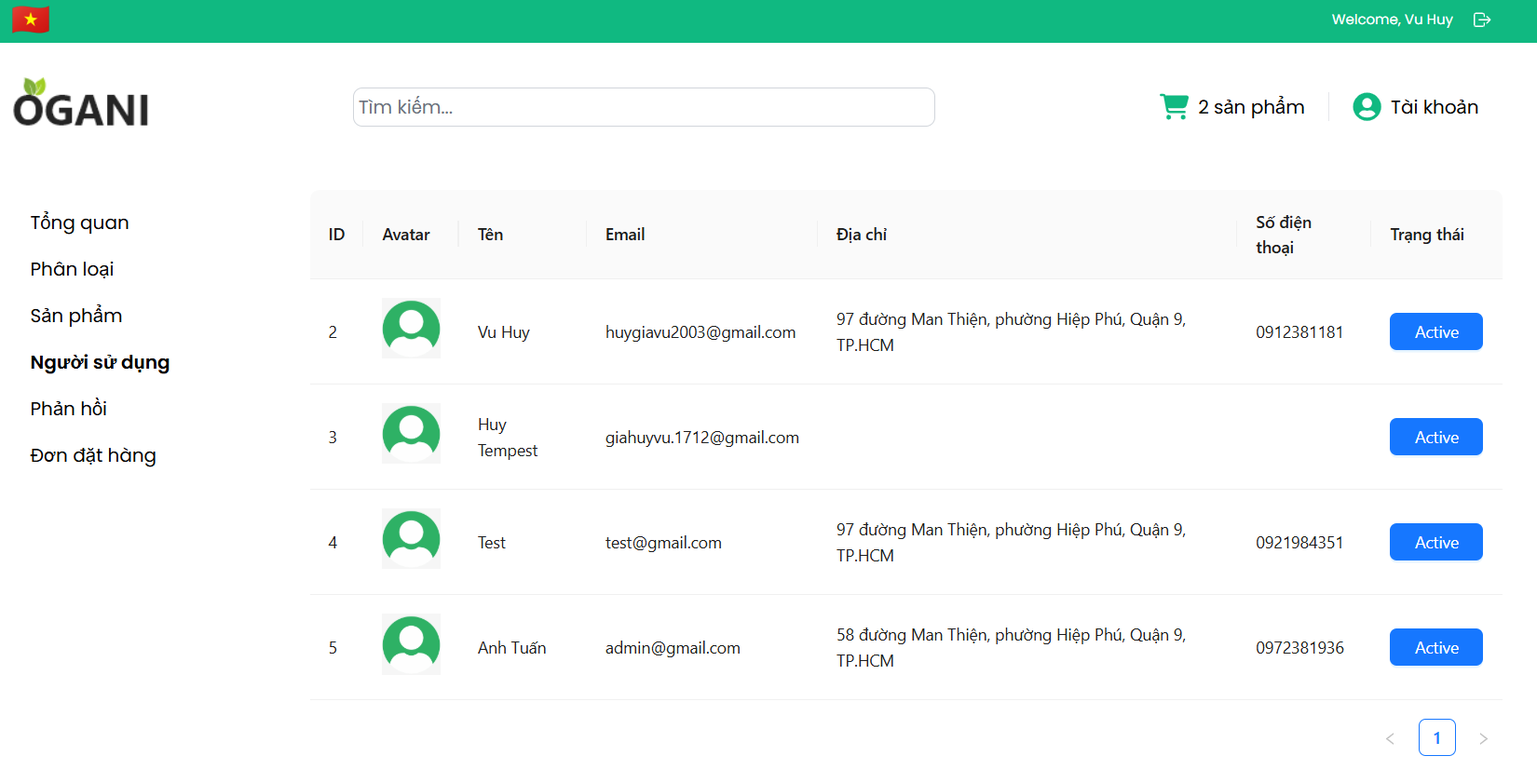
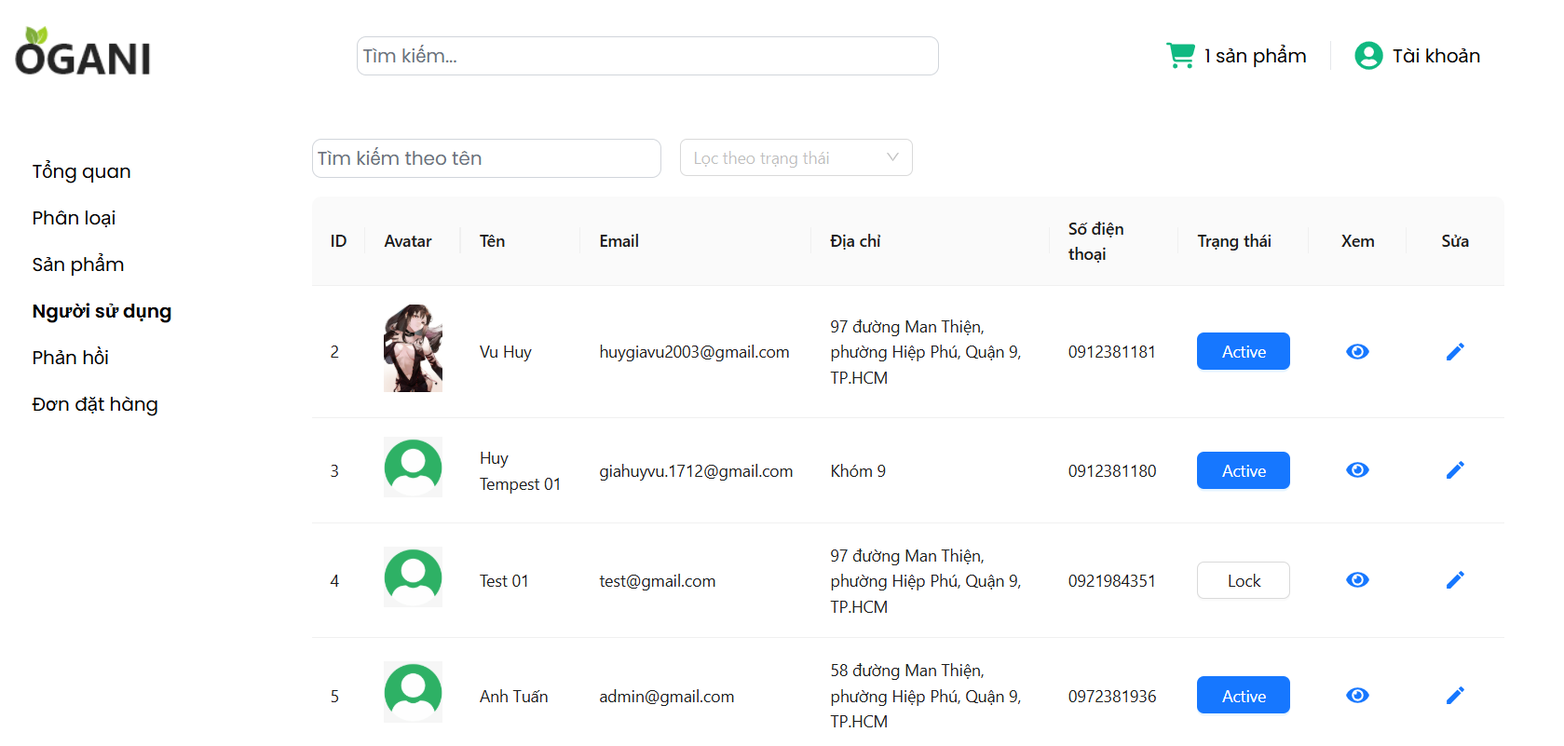
Update CLAUDE.md and screenshots for recent admin work
Document the security fixes, payment status/return flow, and Product/User
admin overhauls from the last few sessions; refresh screenshots to match
the new User admin UI and add one for the new User Detail page.

diff --git a/client/.claude/CLAUDE.md b/client/.claude/CLAUDE.md
@@ -66,18 +66,67 @@ Các mục dưới đây **đã xử lý xong và xác nhận qua test**, không
 - **Thunk `getCurrentUser`** — dùng sai `isRejectedWithValue` (type-guard) thay vì `rejectWithValue` (từ `thunkAPI`) khiến thunk không bao giờ reject đúng khi lỗi. Đã sửa.
 - **Dọn code chết/cấu hình sai**: route `Feedback` trùng lồng trong `App.jsx` (không thể tới được, đã xoá) · `package.json` xoá `"client": "file:"`, `"npm"`, `"i"` (dependency thừa/cài nhầm), `vite-jsconfig-paths` chỉ giữ ở `devDependencies` · `ProviderWrapper.jsx` chuyển từ `src/store/` sang thư mục test (chỉ dùng cho `Checkout.test.jsx`) · đã thêm `.env.example`.
 - **Quản lý người dùng (User) trong admin** — xây mới hoàn chỉnh: trang Edit User (`EditUser.jsx` + `EditUserForm.jsx`), tìm kiếm/lọc trong `User.jsx` (sửa 2 lỗi ẩn: thiếu `paramsSerializer` ở frontend + `UserService.fetchAllUser()` bỏ quên tham số `Specification` ở backend), email thông báo tự động khi admin sửa thông tin/khoá tài khoản (phân biệt rõ với user tự sửa qua `SecurityUtil.getCurrentUserLogin()`), bắt buộc chọn lý do khi khoá tài khoản, chặn admin tự khoá chính mình, polish layout form + nút "Quay về" (`TurnBackHeader.jsx`, dùng chung 6 trang admin). *Quyết định*: bỏ hẳn chức năng Xoá cứng user (rủi ro vỡ ràng buộc khoá ngoại với đơn hàng/đánh giá vì không có `cascade`, dùng Khoá/Active thay thế); chọn gửi email minh bạch-sau-khi-sửa thay vì audit log (chỉ truy vết được sau sự việc) hoặc cơ chế xin-phép-trước qua toggle (có lỗi logic con-gà-quả-trứng: user cần admin sửa giúp nhiều nhất chính là lúc họ không tự bật được toggle đó).
+- **Lỗ hổng Broken Access Control ở `/api/v2/users/**`** — mọi endpoint của `UserController` (list, get by id, create, update, delete) trước đó chỉ yêu cầu "đã đăng nhập" (`anyRequest().authenticated()`), không phân biệt role, nên 1 khách hàng thường có thể tự gọi API để sửa/khoá tài khoản người khác. Đã sửa: `SecurityConfiguration.java` thêm `hasRole("ADMIN")` cho `GET/POST/PUT /users` và `DELETE /users/**`; riêng `GET /users/{id}` giữ `authenticated()` (vì `Personal.jsx`/`Checkout.jsx`/`MemberSidebar.jsx` cũng gọi endpoint này để tự xem hồ sơ của chính mình) và thêm kiểm tra "chính chủ HOẶC admin" ngay trong `UserController.getUser()`. *Lưu ý kỹ thuật quan trọng*: `SecurityUtil.getUserRole()`/`getUserId()` đã có sẵn nhưng **chết** (giả định principal là `Jwt`, trong khi `JwtAuthenticationFilter` đang dùng thực tế set principal là `String`) — không dùng 2 hàm này, phải đọc role qua `SecurityContextHolder...getAuthorities()`.
+- **Đăng ký tài khoản mới tự động thành ADMIN (Critical — Privilege Escalation)** — `AuthController.register()` hard-code `Role r; r.setId(2)` (2 = ADMIN theo seed SQL) cho mọi tài khoản tự đăng ký, thay vì `1` (USER). Đã sửa tận gốc bằng cách đổi endpoint từ nhận thẳng `@RequestBody User` (JPA entity, có thể bị mass-assignment field `id`/`role`/`status` từ client) sang 1 DTO input riêng `RegisterRequestDTO` (chỉ `name`/`email`/`password`, có validate `@Email`/`@Size(min=6)`) — controller tự dựng `User` mới và luôn gán role id=1. Tiện thể vá thêm: `UserService.create()` bắt `DataIntegrityViolationException` khi 2 request đăng ký trùng email gần như đồng thời (trước đó rơi vào handler chung, trả 500 kèm message lỗi SQL thô) → trả 400 thân thiện. *Quyết định*: không chỉ đổi `2` thành `1` mà đổi hẳn sang DTO, vì bind thẳng entity còn hở khả năng client tự gửi `id` để `save()` chạy `merge()` đè lên user khác (chưa kiểm chứng thực nghiệm nhưng đủ rủi ro để đóng luôn bằng cấu trúc thay vì chỉ sửa giá trị). Không đụng `UserController.createNewUser()` (`POST /users`, cùng kiểu bind entity) vì đã bị khoá `hasRole("ADMIN")` từ lần sửa trước, rủi ro thấp hơn nhiều.
+- **Trang admin "Xem chi tiết người dùng"** (`UserDetail.jsx`, route `/admin/user/detail/:userId`) — xây mới: thông tin cơ bản read-only (kèm nguồn đăng nhập Local/Google, thêm field `provider`/`providerId` vào `UserDTO`), 4 số liệu tổng hợp (tổng đơn/tổng chi tiêu/số feedback/rating TB, tính client-side từ dữ liệu đã fetch), 2 tab Đơn hàng/Đánh giá (mặc định tab Đơn hàng) có filter+search riêng, nút Sửa/Khoá-Mở khoá ngay trên trang (tái dùng state machine lý do khoá từ `User.jsx`). Backend thêm 2 endpoint mới `GET users/{id}/orders` (tái dùng query `findOrdersWithOptionalStatus` có sẵn, vốn chỉ dùng cho self-service `/orders`) và `GET users/{id}/feedbacks` (mirror `getByProductId`), cả 2 dùng "auto full-size khi không truyền `size`" (trick có sẵn ở `FeedbackController.getByProductId`) để trả hết dữ liệu 1 lần, tính tổng/trung bình ở frontend, không cần thêm aggregate query. *Lỗ hổng phát hiện kèm, đã vá luôn*: `GET /api/v2/allOrders` (dùng ở `Order.jsx` admin) trước đó không có `hasRole("ADMIN")`, cùng loại Broken Access Control đã sửa cho `/users` — đã thêm rule, xác nhận qua grep không có luồng khách hàng nào gọi `apiGetAllOrders`.
+- **Tính đúng "Tổng chi tiêu"/doanh thu — thêm trạng thái thanh toán thật cho Order** — phát hiện gốc rễ: hệ thống trước đó không có cách nào biết 1 đơn VNPay đã thực sự được thanh toán hay chưa (`Order` không có field `paymentStatus`, `status` 0-3 chỉ là trạng thái vận chuyển; callback VNPay chỉ đọc `vnp_ResponseCode` rồi redirect, không verify chữ ký, không cập nhật `Order`; `vnp_TxnRef` sinh ngẫu nhiên không gắn với `orderId` nên không đối chiếu được). Đã xây state machine `paymentStatus` mới trên `Order` (`UNPAID`/`PENDING_PAYMENT`/`PAID`/`PAYMENT_FAILED`/`REFUND_PENDING`/`REFUNDED`) + field `vnpTxnRef`/`transactionNo`/`paidAt`: COD → `PAID` tự động khi giao thành công (`status=2`); VNPay → `PaymentService.confirmVnPayCallback()` verify HMAC-SHA512 chữ ký (tái dùng `VNPayUtil.hmacSHA512`/`getPaymentURL` có sẵn) + đối chiếu đúng `Order` qua `vnp_TxnRef` (gắn `orderId` vào lúc tạo link thanh toán) + so khớp số tiền chống giả mạo, mới set `PAID`; huỷ đơn đã `PAID` → `REFUND_PENDING` (endpoint mới `GET orders/{id}/confirm-refund`, admin xác nhận thủ công sau khi hoàn tiền ngoài hệ thống). Công thức cuối cùng: `Σ total_price WHERE paymentStatus='PAID'` — duy nhất, đúng theo cấu trúc, tự loại mọi trường hợp chưa/thất bại/đang-đã hoàn tiền. Tiện thể chuyển `vnp_TmnCode`/`secretKey` từ hard-code sang `application.properties` (`@Value`) vì phát hiện tài khoản sandbox cũ đã bị VNPay từ chối ("Website chưa được phê duyệt") — người dùng tự đăng ký tài khoản sandbox mới và cập nhật. *Quyết định*: dữ liệu VNPay cũ không có bằng chứng giao dịch (không lưu `vnp_TxnRef`) nên backfill xấp xỉ `status≠Cancelled → PAID` (xem `SQL/backfill_payment_status.sql`, chạy 1 lần) — chấp nhận không chính xác 100% cho lịch sử, đơn mới tạo sau khi triển khai chính xác tuyệt đối. Không tự động gọi API refund thật của VNPay (tích hợp riêng lớn hơn, ngoài phạm vi) — chỉ dừng ở đánh dấu trạng thái để admin xử lý hoàn tiền thủ công.
+- **Bug bọc lồng response ở `POST /checkout`** — phát hiện khi test luồng VNPay thật: `FormatResponse.java` (`ResponseBodyAdvice` toàn cục) đã tự bọc **mọi** response thành công (status &lt; 400) vào `RestResponse{statusCode, data, message}`, nhưng `OrderController.create()` lại tự tay bọc thêm 1 lớp `RestResponse<Long>` nữa trước khi trả về → JSON cuối cùng bị lồng 2 lớp, khiến `response.data` ở frontend không phải là `orderId` mà là cả object lồng bên trong (gây lỗi `net::ERR_FAILED` khi nhét nguyên object đó vào query string gửi sang VNPay). Đã sửa: nhánh thành công trả thẳng `order.getId()` (raw `Long`), để `FormatResponse` tự bọc đúng 1 lần — khớp convention mọi endpoint khác trong dự án (VD `UserController.getUser()`). Nhánh lỗi giữ nguyên (không bị ảnh hưởng vì `FormatResponse` chủ động bỏ qua khi status ≥ 400). Đã sửa tương tự cho `confirmRefund()`. *Lưu ý kỹ thuật quan trọng*: bug này là **pattern chung**, có thể còn ẩn ở các endpoint khác tự tay bọc `RestResponse` ở nhánh thành công (VD `updateOrderStatus()` — chưa sửa vì frontend hiện chỉ đọc `statusCode`, không đọc `data`, nên chưa lộ bug; cần lưu ý nếu sau này có chỗ đọc `.data` của response từ các endpoint dạng này).
+- **Tính năng "Trả hàng hoàn tiền" sau khi giao thành công** — site đã quảng cáo sẵn "Trả hàng miễn phí 15 ngày" (`OrderCard.jsx`, `constants.jsx`) nhưng chưa có backing (`isValidStatusTransition` coi `status=2` Succeed là trạng thái cuối, không có đường trả hàng). Đã thêm `status=4` "Returned" — khách hàng (chủ đơn) hoặc admin gọi lại đúng endpoint `updateOrderStatus` sẵn có (không cần endpoint mới) để chuyển `2→4`, kèm validate mới: phải `paymentStatus=PAID`, còn trong hạn 15 ngày kể từ `deliveryTime` (admin được bỏ qua hạn này), và phải là chủ đơn hoặc admin (thêm check ownership qua `SecurityUtil.getCurrentUserLogin()`, throw `PermissionException` → 403 nếu sai). Khi chuyển sang `status=4` và đơn đang `PAID`, tự động set `paymentStatus=REFUND_PENDING`, tái dùng nguyên xi cơ chế `REFUND_PENDING→REFUNDED` (nút "Đánh dấu đã hoàn tiền") đã xây cho huỷ đơn — không cần thêm gì ở đây. *Quyết định*: không có bước admin duyệt/từ chối trước khi chuyển `status=4` — khách bấm là chuyển ngay, giống hệt cơ chế Huỷ đơn hiện có, đúng mức độ đơn giản người dùng yêu cầu. API `/orders` (khách hàng) trước đó không trả `deliveryTime`/`paymentStatus` — đã bổ sung vào `OrderDetailDTO`/`OrderService.getOrderByCurrentUser()` vì khách cần biết hạn 15 ngày còn lại. Sửa kèm "Tổng lợi nhuận" ở Overview admin: `OrderService.getOverviewStats()` trước đó tính theo `sumTotalPriceByStatus(2)` (status vận chuyển, không biết gì về hoàn tiền) → đổi sang `sumTotalPriceByPaymentStatus("PAID")` (thêm query mới `OrderRepository`), tự động trừ đúng khi có đơn `REFUND_PENDING`/`REFUNDED`.
+- **Polish sau khi test tính năng Trả hàng hoàn tiền** — vá bug `OrderService.findOrder()` thiếu `paymentStatus` (method xây `OrderDTO` riêng biệt, tách khỏi `convertToOrderDTO()`, bị sót khi thêm field); gộp 3 nút nổi ở `OrderDetail.jsx` admin (Cập nhật giao hàng/In hóa đơn/Đánh dấu đã hoàn tiền) vào 1 container `flex-column` chung + chống bấm đúp (`isRefunding`); `UserDetail.jsx` thêm lọc `paymentStatus` + sắp xếp đơn hàng; sửa nhãn "Default" → text ngữ cảnh ở các Select filter dùng `value` controlled. *Lưu ý kỹ thuật*: dự án có nhiều chỗ tự xây `OrderDTO` thủ công (`findOrder`, `convertToOrderDTO`, `cancelOrder`...) thay vì dùng chung 1 hàm convert — thêm field mới cần rà lại tất cả các nơi này.
+- **Test biên luồng Trả hàng hoàn tiền** — đã xác nhận qua test thực tế: đơn quá hạn 15 ngày ẩn đúng nút/API chặn đúng; chặn đúng người không phải chủ đơn/không phải admin gọi `status=4` hộ (403); admin bỏ qua được hạn 15 ngày khi tự chuyển `2→4` qua dropdown; huỷ đơn VNPay đã `PAID` trước khi giao (`0→3`) ra đúng `REFUND_PENDING`; "Tổng lợi nhuận" ở `/admin/overview` giảm đúng sau khi có đơn `REFUND_PENDING`/`REFUNDED`. Toàn bộ luồng Trả hàng hoàn tiền coi như đã đóng, không cần xem lại.
+- **Vá 5 lỗi từ audit trang Product admin (nhóm A + B một phần)** — Broken Access Control: `DELETE /api/v2/products/**` không có `hasRole("ADMIN")` (POST/PUT đã có sẵn từ trước, chỉ DELETE bị hở) → đã thêm rule vào `SecurityConfiguration.java`. *Lưu ý*: cân nhắc khoá luôn `PUT /api/v2/products/quantity/**` theo ADMIN nhưng đã kiểm tra và phát hiện endpoint này được `Checkout.jsx`/`PaymentSuccess.jsx` gọi để trừ tồn kho khi khách đặt hàng/thanh toán — **không được khoá ADMIN**, giữ nguyên `authenticated()`. Kèm 4 bug: `ProductService.update()` thêm `curr.setCategory(p.getCategory())` (trước đó đổi category khi sửa sản phẩm im lặng không có tác dụng); `ProductController.create()` thêm check `p.getCategory() == null` trước khi gọi `.getId()` (trước đó NPE 500 thô nếu thiếu category); `EditProductForm.jsx` sửa biến sai `resCreate` → `resUpdate` (trước đó update lỗi thì crash `ReferenceError` thay vì hiện thông báo thật); `InputFormAdmin.jsx` sửa `className={className && 'rounded-lg'}` → `` className={`${className || ''} rounded-lg`.trim()} `` (trước đó className truyền vào bị thay thế hoàn toàn, mất style — ảnh hưởng mọi form dùng chung component: Add/EditProduct, EditCategory, EditUser).
+- **Giai đoạn 1 nâng cấp Product admin** — thêm field `active` (Boolean, ẩn/hiện thay hard delete) + `originalPrice` (Double, giá khuyến mãi) vào `Product`/`ResProductDTO`/`ProductService`; endpoint mới `PUT /products/bulk-active` (nhận `{ids, active}`, `@Transactional`, khoá ADMIN) cho bulk actions; `Product.jsx` admin thêm cột trạng thái + filter, cảnh báo tồn kho thấp (`LOW_STOCK_THRESHOLD=5` trong `constants.jsx`) + filter riêng, checkbox chọn nhiều dòng; khách hàng lọc `active=true` ở `Product.jsx`/`FeatureProduct.jsx`/`SearchBar.jsx`; giá khuyến mãi (gạch ngang + % giảm) hiển thị ở `ProductCard`/`ProductDetail`/bảng admin. Validate 2 tầng `originalPrice > price` (frontend + `ProductController`). Kèm vá bug: `EditProduct.jsx` (modal nhập thêm hàng) thiếu field `unit` trong payload, mỗi lần nhập kho âm thầm xoá đơn vị tính sản phẩm — đã bổ sung `unit`/`originalPrice` vào payload.
+- **Bug nghiêm trọng phát hiện khi làm Giai đoạn 1 — `category` biến mất khỏi JSON của `GET /products/{id}`** — `Product.java` field `category` bị đánh `@JsonBackReference` (pairing với `Category.products` đánh `@JsonManagedReference`), khiến Jackson **luôn loại bỏ** `category` khi serialize raw `Product` entity — xác nhận qua `curl` thật (`GET /products/1` không có `"category"` trong response) — dù `Category.products` đã `@JsonIgnore` nên hoàn toàn không có rủi ro đệ quy vô hạn, việc dùng cặp Managed/Back reference này là thừa và sai. Hậu quả: `EditProductForm.jsx`/`EditProduct.jsx` (modal nhập thêm hàng) đọc `productData?.category?.id` luôn ra `undefined` → mỗi lần sửa sản phẩm gửi `category: {}` lên server. Bug này **vốn vô hại** khi `ProductService.update()` chưa từng gọi `curr.setCategory()` — nhưng bị chính fix "đổi category không có tác dụng" ở mục ngay trên **kích hoạt thành lỗi thật**: `curr.setCategory(Category{id=0})` → lưu sẽ vi phạm khoá ngoại `category_id`, mọi lần sửa sản phẩm qua `EditProductForm`/nhập thêm kho sẽ vỡ 500. Phát hiện và sửa **trước khi** bug này lan sang thực tế. *Đã sửa*: xoá `@JsonBackReference` khỏi `Product.category` và `@JsonManagedReference` khỏi `Category.products` (chỉ giữ `@JsonIgnore` một chiều, đồng bộ với cách `Product.feedbacks`/`orderDetails`/`wishlist` đang làm) + đổi `category` từ `FetchType.LAZY` sang `EAGER` (LAZY sau khi bỏ JsonBackReference khiến Jackson serialize thẳng Hibernate proxy `ByteBuddyInterceptor`, lỗi 500 kiểu khác — Category là entity nhỏ, EAGER an toàn). Đã xác nhận qua `curl` thật: `GET /products/{id}` giờ trả đúng `category:{id,name,imageUrl}`, `GET /products`/`GET /categories` (dùng DTO) không đổi hành vi.
+- **Giai đoạn 2 nâng cấp Product admin — nhiều ảnh + import/export Excel** — entity mới `ProductImage` (`@OneToMany` từ `Product`, `cascade=ALL, orphanRemoval=true`, `FetchType.EAGER`, field `product` phía nó `@JsonIgnore` để tránh đệ quy — cùng pattern vừa sửa cho `category`); endpoint `POST/DELETE /products/{id}/images(/{imageId})` (ADMIN). `AddProduct.jsx`/`EditProductForm.jsx` thêm upload/xoá ảnh phụ (gallery); `ProductDetail.jsx` (trang khách) thêm thumbnail strip đổi ảnh chính (`selectedImage` state, ảnh chính `imageUrl` + gallery `images`). Thêm field `sku` (String, unique, nullable) trên `Product`/`ResProductDTO` làm khoá định danh cho import — validate trùng SKU ở cả create/update (`isSkuAvailable()`). Import/export dùng Apache POI (`poi-ooxml` 5.3.0, mới thêm vào `pom.xml`): `GET /products/export` (toàn bộ catalog), `GET /products/import-template` (file mẫu kèm 1 dòng ví dụ), `POST /products/import` (multipart .xlsx) — cả 3 đều trả `ByteArrayResource`/JSON qua `FormatResponse` bình thường (dùng `ByteArrayResource` chứ không phải `byte[]` thô, vì `FormatResponse.java` chỉ bỏ qua bọc `RestResponse` khi body là `String`/`Resource`). Import xử lý **từng dòng độc lập** qua `TransactionTemplate` riêng (không dùng 1 `@Transactional` bọc cả batch) để 1 dòng lỗi không rollback các dòng đã thành công trước đó — trả về `ProductImportResultDTO{totalRows, successCount, errors: [{row, message}]}` để admin thấy lỗi theo dòng. Đối chiếu theo `sku`: có & khớp → update, trống/không khớp → tạo mới. `Product.jsx` admin thêm cột SKU, nút "Xuất Excel", modal "Nhập Excel" (kéo-thả `Upload.Dragger`, tải file mẫu, hiển thị bảng lỗi theo dòng). *Quyết định*: chọn Excel (.xlsx) thay vì CSV vì Apache POI xử lý encoding tiếng Việt và kiểu dữ liệu robust hơn, phù hợp quy ước KiotViet/Sapo. *Đã phát hiện qua thực nghiệm*: 239 sản phẩm cũ đều chưa có SKU → đã tạo `SQL/backfill_sku.sql` (`UPDATE products SET sku = CONCAT('SP-', id) WHERE sku IS NULL`, one-time giống `backfill_payment_status.sql`) để luồng Xuất→sửa→Nhập lại update đúng thay vì tạo trùng lặp toàn bộ catalog — **đã chạy xong, xác nhận**.
+- **Bug thứ tự rule bảo mật khiến `products/export`/`products/import-template` không hề bị khoá ADMIN** — phát hiện qua `curl` thật ngay sau khi thêm 2 endpoint này: cả hai trả về `200` **không cần đăng nhập**, dù đã khai `hasRole("ADMIN")`. Nguyên nhân: `SecurityConfiguration.java` dùng `authorizeHttpRequests` — Spring Security khớp rule theo **thứ tự khai báo, rule đầu tiên khớp sẽ thắng** (không phải rule cụ thể nhất thắng như nhiều framework routing khác) — rule `GET /api/v2/products/**` → `permitAll()` được khai ở gần đầu danh sách (dùng cho xem sản phẩm công khai) đã "nuốt" mất 2 path này trước khi rule `hasRole("ADMIN")` khai sau đó kịp chạy tới. *Đã sửa*: dời 2 rule `GET products/export, products/import-template` lên **trước** rule `permitAll()` tổng quát, kèm comment giải thích rõ nguyên tắc thứ tự để tránh lặp lại lỗi này khi thêm rule mới cho `/products/**` sau này. Đã xác nhận lại qua `curl`: cả 2 endpoint giờ trả `401` khi chưa đăng nhập, danh sách sản phẩm công khai (`GET /products`) không bị ảnh hưởng.
+- **Xoá hẳn chức năng hard-delete sản phẩm** — `ProductService.delete()` gọi thẳng `deleteById()` không có bảo vệ FK (`OrderDetail`/`Feedback`/`Wishlist` không cascade), trong khi UI không còn nút nào gọi tới (đã đổi hết sang Ẩn/Hiện từ Giai đoạn 1) — endpoint vẫn "sống" và nguy hiểm nếu gọi trực tiếp. Đã xoá hẳn `DeleteMapping("products/{id}")` ở `ProductController.java`, `ProductService.delete()`, và `apiDeleteProduct` ở `product.js` (grep xác nhận không còn nơi nào khác gọi tới trước khi xoá). *Quyết định*: xoá hẳn thay vì thêm bảo vệ FK, cùng cách tiếp cận đã chọn cho User (Khoá/Active thay vì Xoá cứng) — nhất quán trong toàn dự án. Endpoint `DELETE /products/{id}/images/{imageId}` (xoá ảnh phụ) không bị ảnh hưởng, vẫn dùng chung rule `DELETE /api/v2/products/**` → ADMIN.
+
+## Trang quản lý sản phẩm (Product) admin — coi như đã đóng
+
+Đã audit + nâng cấp toàn bộ luồng (frontend: `Product.jsx`, `Add/AddProduct.jsx`, `EditProduct.jsx`, `EditProductForm.jsx`, `apis/product.js`, `InputFormAdmin.jsx`; backend: `ProductController.java`, `ProductService.java`, `Product.java`, `ProductImage.java`, `SecurityConfiguration.java`), xem chi tiết đầy đủ ở "Lịch sử các phần đã hoàn thành" phía trên (vá 5 lỗi ban đầu, Giai đoạn 1 — active/giá khuyến mãi/tồn kho thấp/bulk actions, bug Jackson `category`, Giai đoạn 2 — gallery ảnh/SKU/import-export Excel, bug thứ tự rule bảo mật, xoá hard-delete). Nghiên cứu Shopify/WooCommerce/Haravan/Sapo/KiotViet, đã lọc theo quy mô dự án — SKU/barcode nâng cao, giá vốn, hạn sử dụng (đặc thù grocery), khuyến mãi có ngày bắt đầu/kết thúc đã cân nhắc nhưng **chủ động không làm** (effort cao/lợi ích thấp hơn so với quy mô dự án hiện tại).
+
+**Vài mục nhỏ còn sót lại (không liên quan bảo mật) đã gộp thành việc cần làm cho phiên sau** — xem mục "Section tiếp theo — Sửa trang Add/Edit Product + xây trang xem chi tiết sản phẩm" ngay bên dưới "Vấn đề còn lại".
 
 ## Vấn đề còn lại — bước tiếp theo
 
 **Tạm hoãn, chờ giải pháp thay thế (người dùng chủ động chọn không vá code cũ):**
 1. `apiGetRecommendedProducts` (`src/apis/product.js`) gọi `axiosInstanceRecommended` không tồn tại — tính năng gợi ý sản phẩm gãy hoàn toàn.
 2. Google OAuth login đã viết (`GoogleLogin`, `apiLoginGoogle`) nhưng bị comment out trong `Login.jsx`.
+3. Đăng ký tài khoản chưa xác thực email bằng OTP — hiện ai điền email nào cũng đăng ký được ngay, không cần chứng minh sở hữu email đó. Gộp chung nhóm "tạm hoãn" với Google login vì cùng là mở rộng luồng đăng ký/đăng nhập.
 
 **Nợ kỹ thuật nhỏ từ trang User admin (chưa xử lý):**
 3. `EditUserForm.jsx`: `initialUserData` là snapshot đông cứng lúc mount, không cập nhật sau khi lưu — hiếm khi gây sai nếu lưu nhiều lần liên tiếp không rời trang.
 4. `EditUser.jsx` không xử lý lỗi khi `getUserById` thất bại — đứng ở "Loading..." vĩnh viễn, không báo lỗi.
 5. `EditUserForm.jsx` chưa có chức năng đổi avatar (chỉ xem).
 6. "Loading..." ở `EditUser.jsx` là text thô, nên đổi sang `<Spin/>` của Ant Design cho đồng bộ.
+
+**Nợ kỹ thuật khác (phát hiện khi vá lỗ hổng phân quyền `/users`):**
+7. `SecurityUtil.getUserRole()`/`getUserId()` (`server/.../util/SecurityUtil.java`) chết trong thực tế — viết cho kiểu `oauth2ResourceServer` (đang tắt), không tương thích với `JwtAuthenticationFilter` đang chạy thật. Chưa xoá vì có thể còn nơi khác gọi tới, cần grep kiểm tra trước khi sửa/xoá.
+8. `PermissionInterceptor.java` là dead code — toàn bộ logic phân quyền bị comment, luôn `return true`. Nên xoá hẳn hoặc hoàn thiện nếu có nhu cầu dùng `UrlConfig`/`allowedUrls` sau này.
+
+**Đã test xong** (không cần xem lại): backfill `payment_status` dữ liệu cũ, thanh toán VNPay sandbox thật thành công (`paymentStatus` chuyển đúng `PAID` qua callback đã verify chữ ký), toàn bộ luồng + test biên Trả hàng hoàn tiền (xem mục "Test biên luồng Trả hàng hoàn tiền" ở lịch sử phía trên).
+
+**Tạm hoãn theo yêu cầu người dùng:**
+9. Sửa stored procedure `GetRevenueByWeekCycle` (biểu đồ doanh thu tuần, `GET /monthly-orders-revenue`) — đã xác nhận qua `SHOW CREATE PROCEDURE` là nó cộng dồn **toàn bộ** đơn hàng theo `order_time`, không lọc `status`/`payment_status` gì cả (bug nặng hơn cả `getOverviewStats()` cũ). Cần thêm `AND o.payment_status = 'PAID'` vào JOIN condition + lưu định nghĩa vào file SQL mới để đưa vào source control (hiện chỉ tồn tại trong DB, không ai review được).
+
+**Nợ kỹ thuật phát hiện phụ (chưa xử lý, ngoài phạm vi lần này):**
+10. `OrderService.applyVoucherToOrder()` — gọi `userVoucher.getIsUsed()` trước khi kiểm tra `userVoucher != null`, có thể `NullPointerException` khi dùng voucher public chưa có bản ghi `UserVoucher` riêng.
+11. Endpoint `updateOrderStatus` (dùng chung cho admin lẫn khách hàng tự huỷ đơn) không kiểm tra ownership cho các transition khác ngoài `status=4` mới thêm (VD 1 khách có thể huỷ đơn của người khác nếu biết `orderId`) — chỉ vá cho nhánh `status=4`, chưa vá toàn bộ endpoint để tránh mở rộng phạm vi ngoài yêu cầu.
+
+**Chưa dọn dẹp workspace** (đang chờ xác nhận): `client/dist/` và `server/server/target/` (build output đã gitignore, gồm jar 70MB) — an toàn để xoá, đang chờ bạn xác nhận.
+
+## Section tiếp theo — Sửa trang Add/Edit Product + xây trang xem chi tiết sản phẩm
+
+Gộp lại từ nợ kỹ thuật nhỏ phát hiện trong lúc làm Product admin (mục hard-delete đã tự xử lý xong — xem lịch sử — không còn trong danh sách này). Việc cần làm cho phiên sau:
+
+**A. Sửa `EditProduct.jsx` / `Add/AddProduct.jsx`:**
+1. `EditProduct.jsx` — nút "+ Thêm sản phẩm" đặt tên sai, thực chất là nhập thêm hàng vào kho (tăng `quantity`), dễ nhầm với nút "+ Thêm sản phẩm mới" ở trang danh sách — nên đổi tên rõ nghĩa hơn (VD "+ Nhập thêm hàng").
+2. `EditProduct.jsx` — lấy `pid` bằng `window.location.pathname.split('/').pop()` thay vì `useParams()`, dễ vỡ, không nhất quán với trang admin khác (`EditUser.jsx` đã dùng `useParams()`).
+3. `EditProductForm.jsx` sửa thành công không callback lên `EditProduct.jsx` để refetch `product` — nếu sửa giá/số lượng qua form chính rồi mở ngay modal "nhập thêm hàng", modal dùng dữ liệu `product` cũ (state cha chưa cập nhật) làm gốc tính `quantity` mới. Cần thêm callback `onUpdated`/tương tự để `EditProduct.jsx` tự refetch.
+4. `Add/AddProduct.jsx` đã bắt buộc chọn category (chặn được NPE) nhưng ảnh đại diện vẫn không bắt buộc — cân nhắc bắt buộc hoặc chấp nhận giữ optional (chỉ là polish, không phải bug, cần quyết định trước khi làm).
+5. `Product` entity có sẵn field `unit` (đơn vị tính: kg/hộp/gói), `ProductService` đã map/update, nhưng `AddProduct.jsx`/`EditProductForm.jsx` chưa có ô nhập — quick win, chỉ cần thêm input.
+
+**B. Xây trang mới "Xem chi tiết sản phẩm" (admin)** — mirror đúng pattern đã làm cho `UserDetail.jsx` (route `/admin/user/detail/:userId`, xem lịch sử phần Quản lý người dùng): thông tin cơ bản read-only (tên, SKU, category, giá bán/giá gốc, tồn kho, đơn vị, trạng thái active, mô tả), gallery đầy đủ (ảnh chính + `images`), số liệu tổng hợp (đã bán, rating trung bình, số lượt đánh giá — có sẵn qua `apiGetRatingsPage`/`apiGetAllRatingsPage`), nút Sửa/Ẩn-Hiện ngay trên trang (tái dùng state machine từ `Product.jsx`). Cân nhắc thêm tab "Đánh giá" cho sản phẩm này (tái dùng `apiGetRatingsPage` đã có, dùng ở trang khách `ProductDetail.jsx`) — nếu cần tab "Đơn hàng chứa sản phẩm" thì backend hiện **chưa có** endpoint truy vấn `OrderDetail` theo `productId`, cần xây mới nếu muốn.
 
 ## Biến môi trường (`.env`)
 
